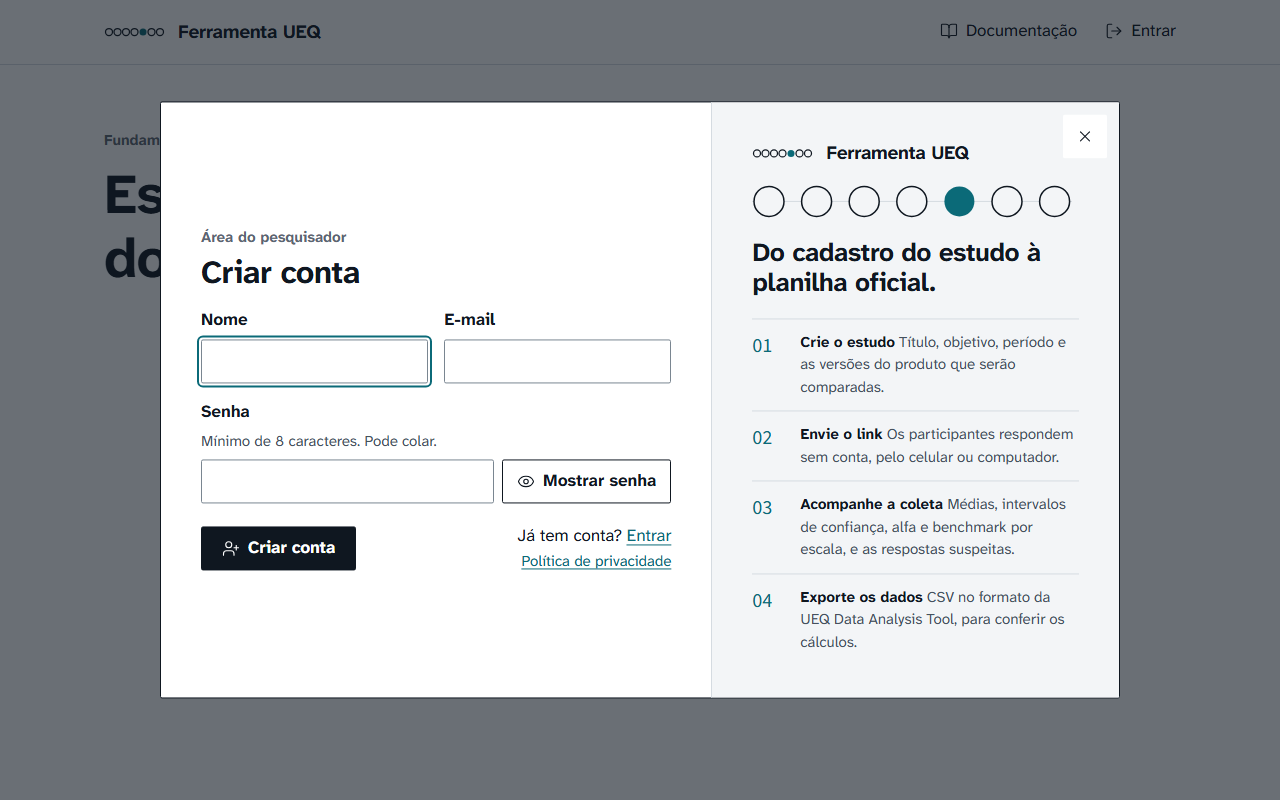
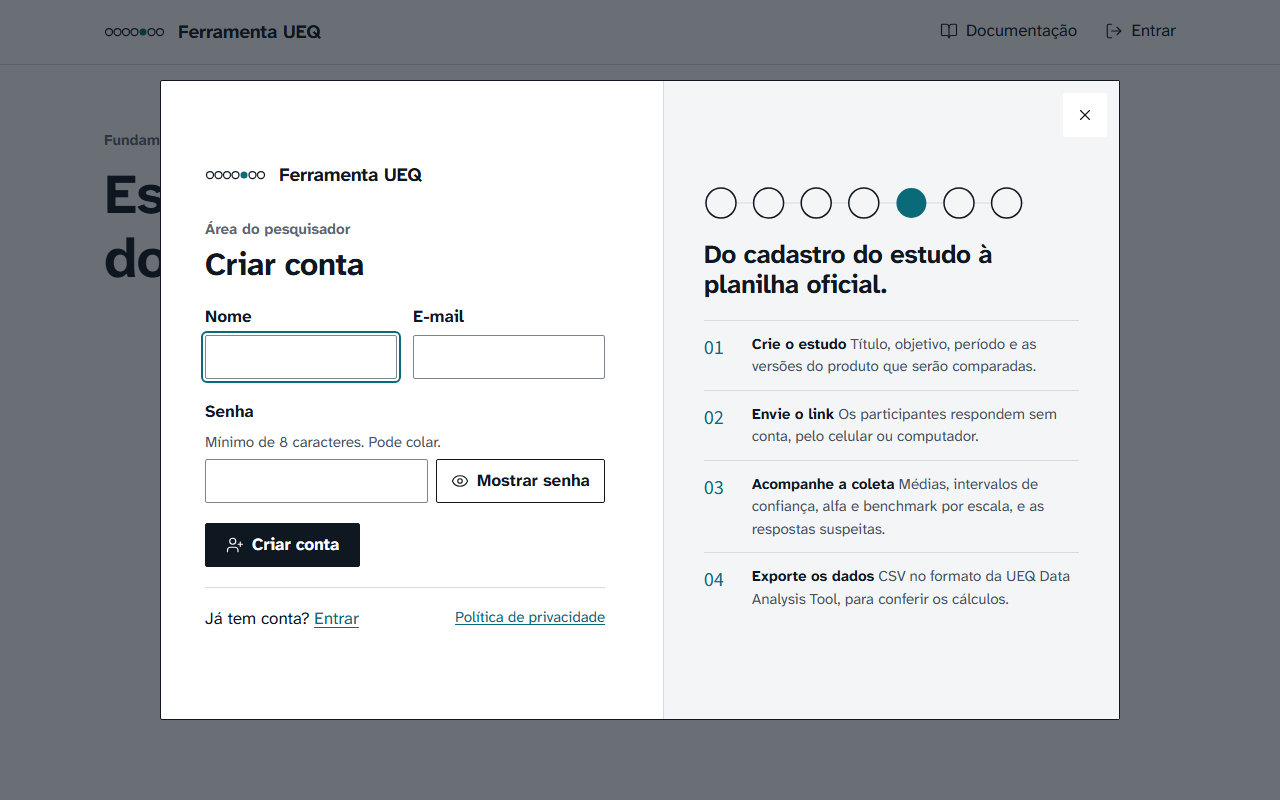
janela de criar conta com o mesmo tamanho e o mesmo estilo de entrar
- As duas janelas têm a mesma estrutura: logotipo no topo do formulário, formulário de 400 px, as mesmas colunas e o rodapé abaixo de uma linha.
- As duas têm a mesma altura mínima no computador; com mensagens de erro, crescem até a altura da tela em vez de rolar.
- Em tela baixa, as duas compactam do mesmo jeito (sem o logotipo e a linha "Área do pesquisador").
- Protótipos R19 e R17 atualizados.

diff --git a/src/app/(ferramenta)/(publico)/_acesso/acesso.module.css b/src/app/(ferramenta)/(publico)/_acesso/acesso.module.css
@@ -13,6 +13,7 @@
   min-width: 0;
   display: flex;
   flex-direction: column;
+  justify-content: center;
   gap: 32px;
   padding: 36px 44px 40px;
 }
@@ -150,14 +151,11 @@
   color: var(--tinta-suave);
 }
 
-/* Criar conta: coluna do formulário mais larga, nome e e-mail lado a lado, o botão e o "Já tem conta?" na
-   mesma linha e o resumo de erros compacto. Assim os 3 campos, com as mensagens de erro, cabem sem rolar */
-.janelaCadastro {
-  grid-template-columns: minmax(0, 1.35fr) minmax(0, 1fr);
-}
-
-.formularioCadastro {
-  max-width: 520px;
+/* Criar conta tem a mesma estrutura e as mesmas medidas de Entrar: logotipo, formulário de 400 px e o
+   painel ao lado. Para os 3 campos caberem sem rolar, mesmo com os erros, nome e e-mail ficam lado a lado
+   e o resumo de erros é compacto */
+.marca {
+  display: block;
 }
 
 .linhaCampos {
@@ -167,31 +165,15 @@
   align-items: start;
 }
 
-.rodapeFormulario {
+.alternativaCadastro {
   display: flex;
   flex-wrap: wrap;
-  align-items: center;
   justify-content: space-between;
-  gap: 12px 20px;
-  padding-top: 4px;
-}
-
-.alternativaLado {
-  margin: 0;
-}
-
-.ladoBotao {
-  display: flex;
-  flex-direction: column;
-  align-items: flex-end;
-  gap: 2px;
-  text-align: right;
+  gap: 4px 16px;
 }
 
 .privacidade {
-  margin: 0;
   font-size: var(--texto-sm);
-  color: var(--tinta-suave);
 }
 
 .formularioCadastro [role="alert"] {
@@ -205,15 +187,6 @@
 
 .formularioCadastro [role="alert"] li {
   font-size: var(--texto-sm);
-}
-
-.janelaCadastro .principal {
-  justify-content: center;
-}
-
-.janelaCadastro .painel {
-  justify-content: flex-start;
-  padding-top: 40px;
 }
 
 /* Notebook e janela baixa: menos espaço entre os blocos, para Criar conta (3 campos) caber sem rolar */
@@ -276,20 +249,8 @@
     max-width: none;
   }
 
-  .janelaCadastro {
-    grid-template-columns: minmax(0, 1fr);
-  }
-
   .linhaCampos {
     grid-template-columns: minmax(0, 1fr);
-  }
-
-  .ladoBotao {
-    flex-direction: row;
-    flex-wrap: wrap;
-    align-items: baseline;
-    gap: 2px 14px;
-    text-align: left;
   }
 }
 
@@ -337,19 +298,25 @@
   }
 }
 
-/* Criar conta em tela baixa (notebook pequeno, celular): some a linha "Área do pesquisador" e os espaços
-   encolhem mais, para o formulário com os 3 erros ainda caber sem rolar */
-@media (max-height: 40rem) {
-  .janelaCadastro .principal {
+/* Tela baixa (notebook pequeno, celular deitado): nas duas janelas saem o logotipo e a linha "Área do
+   pesquisador", e os espaços encolhem, para o formulário com os erros ainda caber sem rolar */
+@media (max-height: 45rem) {
+  .marca {
+    display: none;
+  }
+}
+
+@media (max-height: 45rem) {
+  .principal {
     padding-top: 20px;
     padding-bottom: 20px;
   }
 
-  .janelaCadastro .area {
+  .area {
     display: none;
   }
 
-  .formularioCadastro {
+  .formulario {
     gap: 10px;
   }
 }
@@ -384,9 +351,5 @@
 
   .formularioCadastro [role="alert"] {
     padding: 8px 12px;
-  }
-
-  .rodapeFormulario {
-    padding-top: 0;
   }
 }

diff --git a/src/app/(ferramenta)/(publico)/_acesso/FormularioCadastro.tsx b/src/app/(ferramenta)/(publico)/_acesso/FormularioCadastro.tsx
@@ -65,23 +65,19 @@ export function FormularioCadastro({ idTitulo }: { idTitulo: string }) {
         autoComplete="new-password"
         erro={estado.erros?.senha}
       />
-      <div className={estilos.rodapeFormulario}>
-        <button type="submit" className={`${formulario.botao} ${formulario.primario}`}>
+      <button type="submit" className={`${formulario.botao} ${formulario.primario} ${estilos.enviar}`}>
           <UserPlus size={18} strokeWidth={1.5} aria-hidden="true" className={formulario.icone} />
           <span>Criar conta</span>
-        </button>
-        <div className={estilos.ladoBotao}>
-          <p className={estilos.alternativaLado}>
-            Já tem conta? <Link href="/entrar">Entrar</Link>
-          </p>
-          {/* Em outra aba: a janela de cadastro fica como está, com o que a pessoa já digitou */}
-          <p className={estilos.privacidade}>
-            <a href="/privacidade" target="_blank" rel="noopener">
-              Política de privacidade<span className="visualmente-oculto"> (abre em nova aba)</span>
-            </a>
-          </p>
-        </div>
-      </div>
+      </button>
+      <p className={`${estilos.alternativa} ${estilos.alternativaCadastro}`}>
+        <span>
+          Já tem conta? <Link href="/entrar">Entrar</Link>
+        </span>
+        {/* Em outra aba: a janela de cadastro fica como está, com o que a pessoa já digitou */}
+        <a href="/privacidade" target="_blank" rel="noopener" className={estilos.privacidade}>
+          Política de privacidade<span className="visualmente-oculto"> (abre em nova aba)</span>
+        </a>
+      </p>
     </form>
   );
 }

diff --git a/src/app/(ferramenta)/(publico)/_acesso/Acesso.tsx b/src/app/(ferramenta)/(publico)/_acesso/Acesso.tsx
@@ -74,9 +74,11 @@ export function ProvedorAcesso({ children }: { children: ReactNode }) {
           onClickCapture={aoClicar}
         >
           <div className={estilos.principal}>
-            {/* Em Criar conta o logotipo vai para o painel ao lado: sem ele aqui, os 3 campos e as mensagens
-                de erro cabem na janela sem rolar */}
-            {modo !== "cadastrar" && <Logotipo />}
+            {/* Entrar e Criar conta têm a mesma estrutura: logotipo, formulário e painel ao lado. Em tela
+                baixa o logotipo sai das duas, para Criar conta com os erros caber sem rolar */}
+            <span className={estilos.marca}>
+              <Logotipo />
+            </span>
             {modo === "cadastrar" ? (
               <FormularioCadastro key="cadastrar" idTitulo={idTitulo} />
             ) : (

diff --git a/src/app/(ferramenta)/(publico)/_acesso/Paineis.tsx b/src/app/(ferramenta)/(publico)/_acesso/Paineis.tsx
@@ -1,4 +1,3 @@
-import { Logotipo } from "@/componentes/Logotipo";
 import { ESCALAS_DO_UEQ, PASSOS } from "../conteudo";
 import estilos from "./acesso.module.css";
 
@@ -38,7 +37,6 @@ export function PainelInstrumento() {
 export function PainelPercurso() {
   return (
     <aside aria-label="Como funciona" className={estilos.painel}>
-      <Logotipo />
       <Marcacoes />
       <p className={estilos.painelTitulo}>Do cadastro do estudo à planilha oficial.</p>
       <ol className={estilos.lista}>

diff --git a/src/componentes/janela/janela.module.css b/src/componentes/janela/janela.module.css
@@ -61,6 +61,14 @@
   width: 60rem;
 }
 
+/* Entrar e Criar conta com a mesma altura: trocar de uma para a outra não faz a janela pular.
+   Com mensagens de erro, a janela cresce até a altura da tela em vez de rolar */
+@media (min-width: 40.0625rem) {
+  .acesso {
+    min-height: min(40rem, calc(100dvh - 32px));
+  }
+}
+
 .confirmacao {
   width: 33rem;
 }
